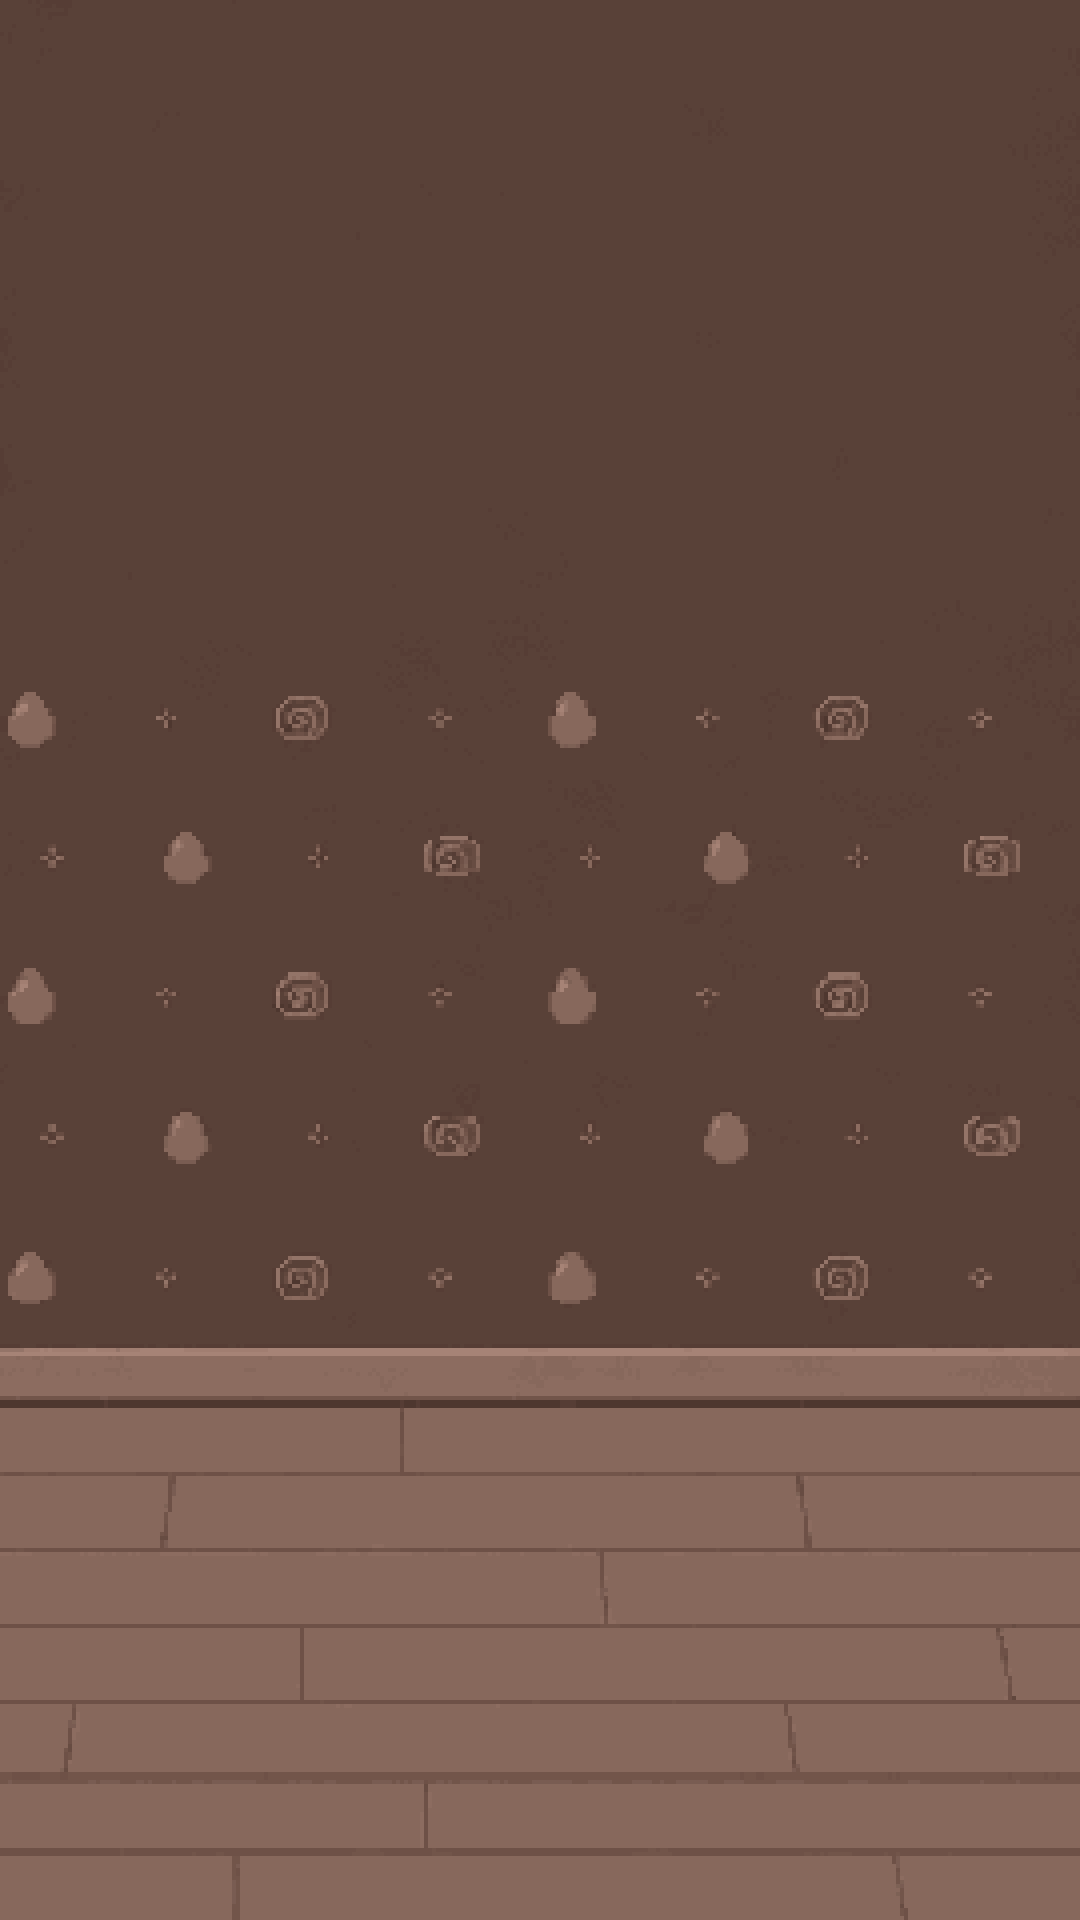
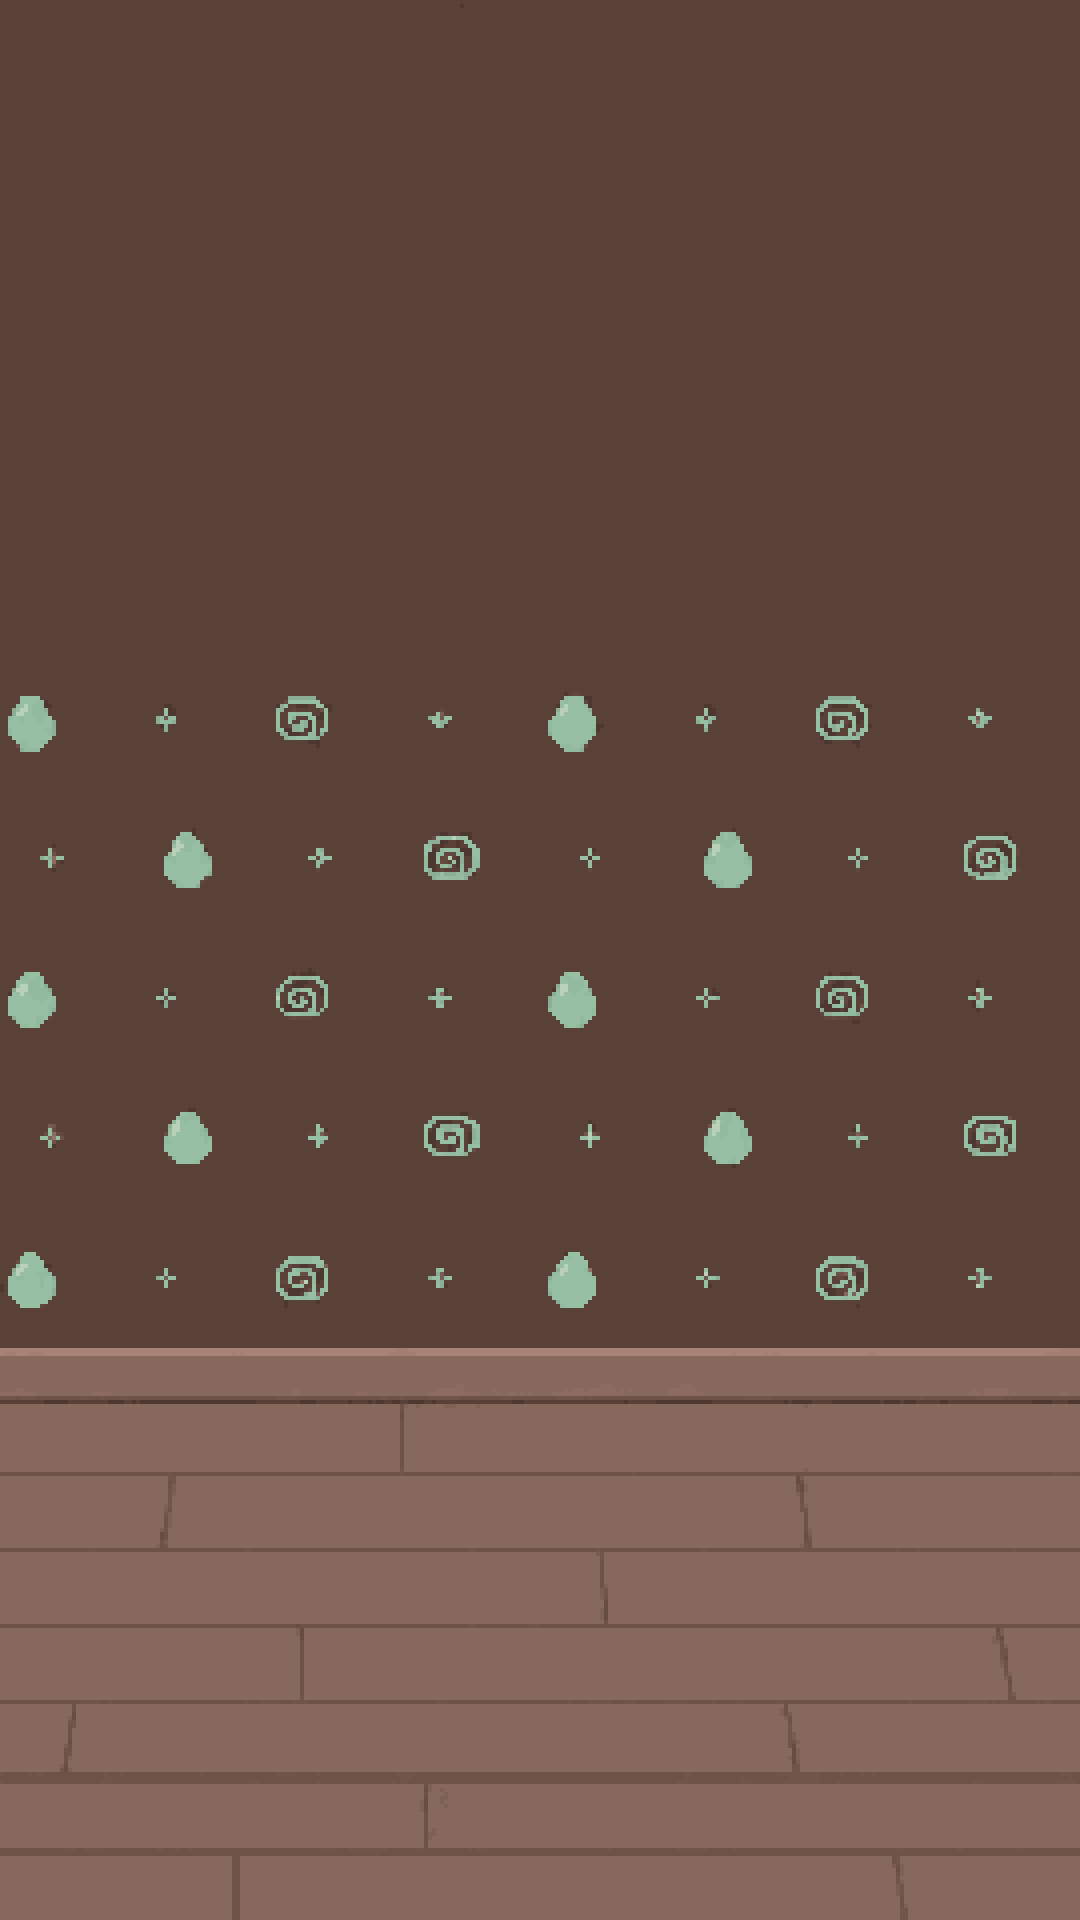
feat(theme): Cocoa 배경 무늬를 민트로 교체 (아이폰·아이패드)
- 업로드본(941×1672, 1448×1086)은 리샘플로 픽셀 경계가 뭉개져 색 2만여 개 → 원래 격자로 복원
- 아이패드: 기존 480×360 원본 모양 그대로 두고 무늬 덩어리만 업로드본의 민트로 재채색
- 아이폰: 무늬가 새로 그려져 있어 업로드본을 270×480 격자에 맞춰 직접 축소(칸 안 민트 비율로 판정)
- 벽은 #594138(pageBackground)과 정확히 일치, 바닥은 기존 팔레트 유지
- 원본 업로드는 images/backgrounds/source/에 보관

diff --git a/images/backgrounds/README.md b/images/backgrounds/README.md
@@ -8,7 +8,7 @@
 | Mode | File | Palette |
 | --- | --- | --- |
 | Dark | 01_Midnight_Navy.png | Smoky navy, dusty blue-violet, muted gold |
-| Dark | 02_Cocoa_Night.png | Warm dark cocoa, mushroom taupe |
+| Dark | 02_Cocoa_Night.png | Warm dark cocoa wall, mint pixel pattern (2026-10-23 교체 — 원본 업로드는 source/) |
 | Light | 03_Butter_Yellow.png | Butter yellow, warm cream, pale honey |
 | Light | 04_Mint_Cream.png | Pastel mint, warm ivory, muted sage |
 | Light | 05_Lavender_Milk.png | Pale lavender, lilac, warm ivory |

diff --git a/images/backgrounds/iPad/README.md b/images/backgrounds/iPad/README.md
@@ -5,7 +5,7 @@
 | Mode | File | Palette |
 | --- | --- | --- |
 | Dark | 01_Midnight_Navy.png | Midnight navy / slate blue / muted tan |
-| Dark | 02_Cocoa_Night.png | Dark cocoa / mushroom taupe |
+| Dark | 02_Cocoa_Night.png | Dark cocoa wall, mint pixel pattern (2026-10-23 교체 — 원본 업로드는 ../source/) |
 | Light | 03_Butter_Yellow.png | Butter yellow / warm cream / pale honey |
 | Light | 04_Mint_Cream.png | Pastel mint / warm ivory / muted sage |
 | Light | 05_Lavender_Milk.png | Pale lavender / lilac / warm ivory |
